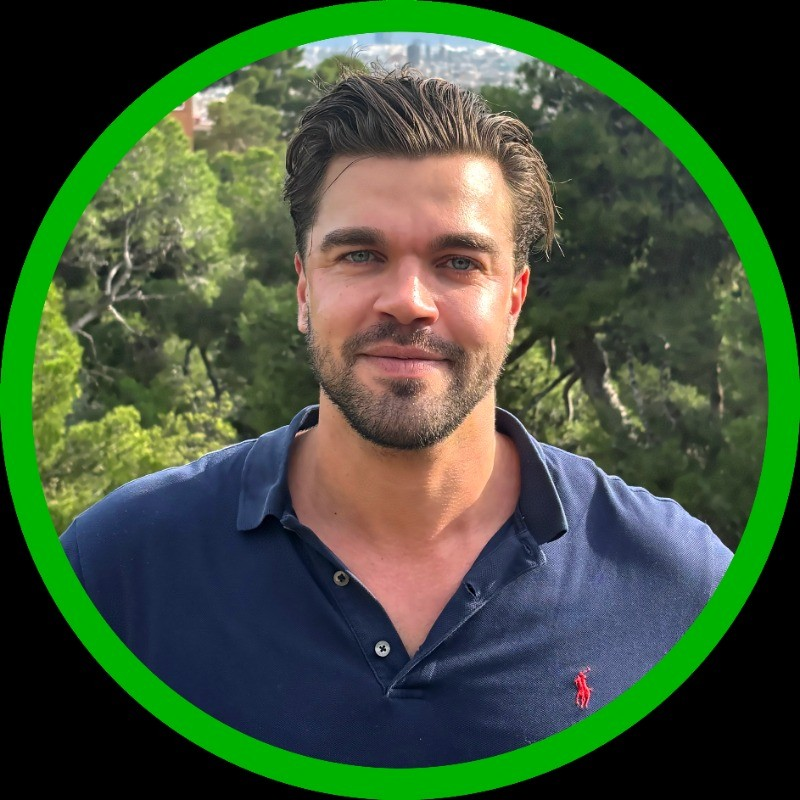
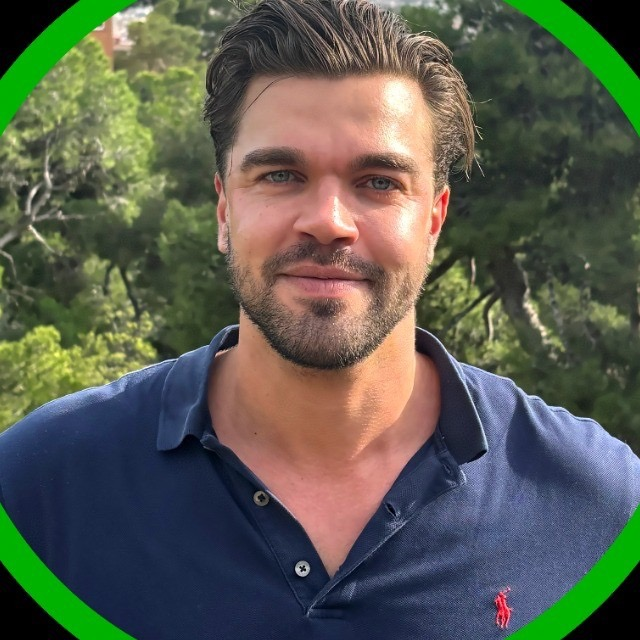
STS: member one-liners + framing fixes (Demian crop, Zach face), bigger benefit cards w/ concrete copy no dup numbers, 3-step how-it-works, host facilitation, tighter spacing, dinner photo reorder

diff --git a/src/app/shouldertoshoulder/page.tsx b/src/app/shouldertoshoulder/page.tsx
@@ -11,13 +11,14 @@ const MUT_SOFT = "#d8d2c7";
 const INK = "#15130f";
 const INK_MUT = "#57534c";
 
-const members = [
-  { name: "David", img: "/members/David.png" },
-  { name: "Zach", img: "/members/Zach.png" },
-  { name: "Kibet", img: "/members/Kibet.png" },
-  { name: "Dane", img: "/members/Dane.jpeg" },
-  { name: "Samer", img: "/members/Samer.png" },
-  { name: "Demian", img: "/members/Demian.jpeg" },
+type Member = { name: string; tag: string; img: string; pos?: string; scale?: number };
+const members: Member[] = [
+  { name: "Kibet", tag: "AgTech hardware · raising Series A", img: "/members/Kibet.png" },
+  { name: "David", tag: "Bali real estate investment", img: "/members/David.png" },
+  { name: "Samer", tag: "Airbnb · building a 16-unit project", img: "/members/Samer.png" },
+  { name: "Demian", tag: "2× AI-run B2B SaaS", img: "/members/Demian.jpeg", scale: 1.3 },
+  { name: "Dane", tag: "AI platform for filmmakers", img: "/members/Dane.jpeg" },
+  { name: "Zach", tag: "Health & wellbeing app", img: "/members/Zach.png", pos: "center 18%" },
 ];
 
 const copy = {
@@ -34,17 +35,17 @@ const copy = {
     painEyebrow: "Sound familiar?",
     painLine: "Building alone is slow. You hit the same walls, second-guess the big calls, and lose weeks no one helps you avoid.",
 
-    changeEyebrow: "What you get",
-    changeTitle: "Faster growth. A real team. More fun.",
+    changeEyebrow: "The outcome",
+    changeTitle: "Here's what changes.",
     changes: [
-      { title: "Exponential growth", desc: "You compound with the room, instead of growing alone, one linear step at a time." },
-      { title: "A real team", desc: "Six founders who know your business and have your back on every hard call." },
-      { title: "More fun", desc: "Wins shared, the journey lighter. You're not doing this alone anymore." },
+      { title: "Exponential growth", desc: "Normal founders grow linearly. Together we grow exponentially." },
+      { title: "A real team", desc: "A real team of founders around you, who know your business and back you on every call." },
+      { title: "Enjoy the journey", desc: "Fun stuff, dinners and activities. You're not doing this alone anymore." },
     ],
 
     roomEyebrow: "Who's in the room",
     roomTitle: "The founders beside you.",
-    roomSub: "Real operators building real businesses. Founders like David, Zach, Samer and Kibet. This is who you grow with, every week.",
+    roomSub: "Just some examples of who you grow with, every week.",
 
     proofEyebrow: "Proof",
     proofTitle: "What it does for them.",
@@ -53,21 +54,21 @@ const copy = {
       { quote: "I'd been stuck on a real estate idea for months. With the circle it became land I now own and a 14-unit project.", name: "Samer", type: "Member" },
       { quote: "I started thinking like the founder I need to become to raise €40M. It changed everything.", name: "Kibet", type: "Member" },
     ],
-    dinnerCaps: ["Founder dinner", "The club", "Together"],
-    storyLine: "I built the room I wish I'd had as a founder.",
-    storyName: "Lennart van der Ziel",
+    dinnerCaps: ["The club", "Founder dinner", "Together"],
 
-    ccEyebrow: "The circle & the club",
-    ccTitle: "You're never in it alone.",
-    ccCircleTitle: "Your circle",
-    ccCircleDesc: "A weekly session with your six, plus a monthly 1-on-1 with Lennart. Online, because members are everywhere.",
-    ccClubTitle: "The club",
-    ccClubDesc: "The whole community together: events, dinners and sidequests, in person.",
+    howEyebrow: "How it works",
+    howTitle: "Here's how it works.",
+    how: [
+      { n: "1", title: "You're selected into a circle", desc: "You fit into one of the weekly circles with your six. Just one hour a week, online, because members are everywhere." },
+      { n: "2", title: "Dinners & activities", desc: "The whole club comes together in person for dinners, events and sidequests." },
+      { n: "3", title: "Monthly 1-on-1 with Lennart", desc: "Personal strategy, just you and me." },
+    ],
+    howNote: "Every circle is personally facilitated by Lennart.",
 
     hostEyebrow: "Your host",
     hostName: "Lennart van der Ziel",
     hostChips: ["Founder & CEO", "Best of CES", "100+ founders guided"],
-    hostDesc: "I built and led an award-winning tech startup. I made costly mistakes and often felt alone. Shoulder to Shoulder is the room I wish I'd had.",
+    hostDesc: "I built and led an award-winning tech startup. I made costly mistakes and often felt alone, so I built the room I wish I'd had. I personally host every circle.",
 
     faqEyebrow: "FAQ",
     faqTitle: "Good questions.",
@@ -97,17 +98,17 @@ const copy = {
     painEyebrow: "Herkenbaar?",
     painLine: "Alleen bouwen is traag. Je loopt tegen dezelfde muren aan, twijfelt over de grote keuzes, en verliest weken die niemand je helpt voorkomen.",
 
-    changeEyebrow: "Wat je krijgt",
-    changeTitle: "Sneller groeien. Een echt team. Meer plezier.",
+    changeEyebrow: "Het resultaat",
+    changeTitle: "Dit verandert er.",
     changes: [
-      { title: "Exponentiële groei", desc: "Je compound met de groep, in plaats van alleen, stap voor stap lineair." },
-      { title: "Een echt team", desc: "Zes founders die je business kennen en achter je staan bij elke lastige keuze." },
-      { title: "Meer plezier", desc: "Wins gedeeld, de reis lichter. Je doet dit niet langer alleen." },
+      { title: "Exponentiële groei", desc: "Normale founders groeien lineair. Samen groeien we exponentieel." },
+      { title: "Een echt team", desc: "Een echt team van founders om je heen, die je business kennen en achter je staan bij elke keuze." },
+      { title: "Geniet van de reis", desc: "Leuke dingen, diners en activiteiten. Je doet dit niet langer alleen." },
     ],
 
     roomEyebrow: "Wie er in de kamer zit",
     roomTitle: "De founders naast je.",
-    roomSub: "Echte ondernemers die echte bedrijven bouwen. Founders zoals David, Zach, Samer en Kibet. Met hen groei je, elke week.",
+    roomSub: "Slechts een paar voorbeelden van met wie je groeit, elke week.",
 
     proofEyebrow: "Bewijs",
     proofTitle: "Wat het voor hen doet.",
@@ -116,21 +117,21 @@ const copy = {
       { quote: "Ik zat al maanden vast op een vastgoedidee. Met de kring werd het grond die ik nu bezit en een project van 14 units.", name: "Samer", type: "Lid" },
       { quote: "Ik begon te denken als de founder die ik moet worden om €40M op te halen. Dat veranderde alles.", name: "Kibet", type: "Lid" },
     ],
-    dinnerCaps: ["Founder-diner", "De club", "Samen"],
-    storyLine: "Ik bouwde de groep die ik zelf had willen hebben als founder.",
-    storyName: "Lennart van der Ziel",
+    dinnerCaps: ["De club", "Founder-diner", "Samen"],
 
-    ccEyebrow: "De circle & de club",
-    ccTitle: "Je staat er nooit alleen voor.",
-    ccCircleTitle: "Je circle",
-    ccCircleDesc: "Een wekelijkse sessie met je zes, plus een maandelijkse 1-op-1 met Lennart. Online, omdat members overal zitten.",
-    ccClubTitle: "De club",
-    ccClubDesc: "De hele community samen: events, diners en sidequests, in het echt.",
+    howEyebrow: "Hoe het werkt",
+    howTitle: "Zo werkt het.",
+    how: [
+      { n: "1", title: "Je wordt geplaatst in een circle", desc: "Je komt in een van de wekelijkse circles met je zes. Eén uur per week, online, omdat members overal zitten." },
+      { n: "2", title: "Diners & activiteiten", desc: "De hele club komt in het echt samen voor diners, events en sidequests." },
+      { n: "3", title: "Maandelijkse 1-op-1 met Lennart", desc: "Persoonlijke strategie, alleen jij en ik." },
+    ],
+    howNote: "Elke circle wordt persoonlijk gefaciliteerd door Lennart.",
 
     hostEyebrow: "Je host",
     hostName: "Lennart van der Ziel",
     hostChips: ["Founder & CEO", "Best of CES", "100+ founders begeleid"],
-    hostDesc: "Ik bouwde en leidde een bekroonde tech-startup. Ik maakte dure fouten en voelde me vaak alleen. Shoulder to Shoulder is de groep die ik zelf had willen hebben.",
+    hostDesc: "Ik bouwde en leidde een bekroonde tech-startup. Ik maakte dure fouten en voelde me vaak alleen, dus bouwde ik de groep die ik zelf had willen hebben. Ik host elke circle persoonlijk.",
 
     faqEyebrow: "FAQ",
     faqTitle: "Goede vragen.",
@@ -158,13 +159,13 @@ export default function Join() {
     document.getElementById("book")?.scrollIntoView({ behavior: "smooth" });
   }
 
-  const SEC = "100px 24px";
+  const SEC = "88px 24px";
   const btnLight = (extra: React.CSSProperties = {}): React.CSSProperties => ({ color: INK, background: "#fff", padding: "16px 32px", borderRadius: 100, fontSize: 15.5, fontWeight: 700, cursor: "pointer", border: "none", fontFamily: "inherit", ...extra });
   const eyebrowS: React.CSSProperties = { fontSize: 12, fontWeight: 800, letterSpacing: "0.18em", textTransform: "uppercase", color: ACCENT };
   const h2 = (dark: boolean): React.CSSProperties => ({ marginTop: 14, fontSize: "clamp(29px,3.7vw,40px)", fontWeight: 800, lineHeight: 1.12, letterSpacing: "-0.022em", color: dark ? "#fff" : INK });
   const mediaBox: React.CSSProperties = { position: "relative", width: "100%", borderRadius: 16, overflow: "hidden", background: "linear-gradient(135deg, #1c1915, #2e2820)", border: "1px solid rgba(255,255,255,0.1)", display: "flex", alignItems: "center", justifyContent: "center" };
   const Head = ({ eye, title, dark, center }: { eye: string; title: string; dark: boolean; center?: boolean }) => (
-    <div style={{ maxWidth: 640, margin: center ? "0 auto 48px" : "0 0 40px", textAlign: center ? "center" : "left" }}>
+    <div style={{ maxWidth: 640, margin: center ? "0 auto 44px" : "0 0 36px", textAlign: center ? "center" : "left" }}>
       <span style={eyebrowS}>{eye}</span>
       <h2 style={h2(dark)}>{title}</h2>
     </div>
@@ -191,10 +192,10 @@ export default function Join() {
       </nav>
 
       {/* HERO */}
-      <header style={{ position: "relative", width: "100%", minHeight: "94vh", overflow: "hidden", display: "flex", flexDirection: "column", justifyContent: "flex-end" }}>
+      <header style={{ position: "relative", width: "100%", minHeight: "90vh", overflow: "hidden", display: "flex", flexDirection: "column", justifyContent: "flex-end" }}>
         <Image src="/founders.jpg" alt="Founders together" fill className="ken-burns photo-grade" style={{ objectFit: "cover" }} priority />
         <div style={{ position: "absolute", inset: 0, background: "linear-gradient(to bottom, rgba(10,9,7,0.6) 0%, rgba(10,9,7,0.35) 40%, rgba(10,9,7,0.8) 74%, rgba(10,9,7,0.98) 100%)" }} />
-        <div className="fade-up" style={{ position: "relative", maxWidth: 1080, margin: "0 auto", width: "100%", padding: "0 24px 90px" }}>
+        <div className="fade-up" style={{ position: "relative", maxWidth: 1080, margin: "0 auto", width: "100%", padding: "0 24px 64px" }}>
           <div style={{ display: "inline-flex", alignItems: "center", gap: 8, border: "1px solid rgba(255,255,255,0.4)", borderRadius: 100, padding: "7px 15px", marginBottom: 24, backdropFilter: "blur(8px)", background: "rgba(255,255,255,0.14)" }}>
             <span className="pulse-dot" style={{ width: 7, height: 7, borderRadius: "50%", background: ACCENT }} />
             <span style={{ fontSize: 11.5, fontWeight: 700, letterSpacing: "0.14em", textTransform: "uppercase", color: "#fff" }}>{t.byInvite}</span>
@@ -202,7 +203,7 @@ export default function Join() {
           <h1 style={{ fontSize: "clamp(46px,7.6vw,88px)", fontWeight: 800, lineHeight: 0.98, letterSpacing: "-0.035em", color: "#fff", maxWidth: 820, marginBottom: 22, textShadow: "0 2px 30px rgba(0,0,0,0.5)" }}>
             {t.heroTitleA}<span style={{ color: ACCENT }}>{t.heroTitleB}</span>
           </h1>
-          <p style={{ maxWidth: 540, fontSize: "clamp(18px,2.2vw,22px)", lineHeight: 1.4, color: "#f0ece4", marginBottom: 34, fontWeight: 500, textShadow: "0 1px 16px rgba(0,0,0,0.6)" }}>{t.heroSub}</p>
+          <p style={{ maxWidth: 540, fontSize: "clamp(18px,2.2vw,22px)", lineHeight: 1.4, color: "#f0ece4", marginBottom: 32, fontWeight: 500, textShadow: "0 1px 16px rgba(0,0,0,0.6)" }}>{t.heroSub}</p>
           <div style={{ display: "flex", alignItems: "center", gap: 16, flexWrap: "wrap" }}>
             <button onClick={book} className="btn-light" style={btnLight({ padding: "17px 34px", fontSize: 16 })}>{t.applyArrow}</button>
             <span style={{ fontSize: 13.5, color: MUT, fontWeight: 600 }}>{t.freeNote}</span>
@@ -211,23 +212,22 @@ export default function Join() {
       </header>
 
       {/* PAINPOINT */}
-      <section style={{ background: "#0f0e0b", padding: "80px 24px", borderBottom: "1px solid rgba(255,255,255,0.06)" }}>
+      <section style={{ background: "#0f0e0b", padding: "58px 24px" }}>
         <div style={{ maxWidth: 720, margin: "0 auto", textAlign: "center" }}>
           <span style={eyebrowS}>{t.painEyebrow}</span>
-          <p style={{ marginTop: 16, fontSize: "clamp(22px,3vw,30px)", fontWeight: 700, lineHeight: 1.35, letterSpacing: "-0.02em", color: "#fff" }}>{t.painLine}</p>
+          <p style={{ marginTop: 14, fontSize: "clamp(22px,3vw,30px)", fontWeight: 700, lineHeight: 1.35, letterSpacing: "-0.02em", color: "#fff" }}>{t.painLine}</p>
         </div>
       </section>
 
       {/* WHAT YOU GET */}
-      <section style={{ background: "#0f0e0b", padding: SEC }}>
+      <section style={{ background: "#0f0e0b", padding: `20px 24px ${SEC.split(" ")[0]}` }}>
         <div style={{ maxWidth: 1000, margin: "0 auto" }}>
           <Head eye={t.changeEyebrow} title={t.changeTitle} dark center />
-          <div className="grid-auto" style={{ display: "grid", gridTemplateColumns: "repeat(auto-fit,minmax(260px,1fr))", gap: 18 }}>
-            {t.changes.map((b, i) => (
-              <div key={b.title} style={{ background: "rgba(255,255,255,0.04)", border: "1px solid rgba(255,255,255,0.12)", borderRadius: 16, padding: "30px 26px" }}>
-                <span style={{ display: "inline-flex", alignItems: "center", justifyContent: "center", width: 40, height: 40, borderRadius: 10, background: `color-mix(in srgb, ${ACCENT} 18%, transparent)`, color: ACCENT, fontWeight: 800, fontSize: 15 }}>{String(i + 1).padStart(2, "0")}</span>
-                <h3 style={{ fontSize: 20, fontWeight: 800, marginTop: 16, letterSpacing: "-0.01em", color: "#fff" }}>{b.title}</h3>
-                <p style={{ marginTop: 8, fontSize: 15, lineHeight: 1.55, color: MUT }}>{b.desc}</p>
+          <div className="grid-auto" style={{ display: "grid", gridTemplateColumns: "repeat(auto-fit,minmax(280px,1fr))", gap: 18 }}>
+            {t.changes.map((b) => (
+              <div key={b.title} style={{ background: "rgba(255,255,255,0.04)", border: "1px solid rgba(255,255,255,0.12)", borderRadius: 18, padding: "38px 32px" }}>
+                <h3 style={{ fontSize: 25, fontWeight: 800, letterSpacing: "-0.02em", color: "#fff" }}>{b.title}</h3>
+                <p style={{ marginTop: 12, fontSize: 16.5, lineHeight: 1.55, color: MUT_SOFT }}>{b.desc}</p>
               </div>
             ))}
           </div>
@@ -237,20 +237,21 @@ export default function Join() {
       {/* WHO'S IN THE ROOM */}
       <section style={{ background: "#fff", color: INK, padding: SEC }}>
         <div style={{ maxWidth: 1000, margin: "0 auto" }}>
-          <div style={{ textAlign: "center", maxWidth: 620, margin: "0 auto 48px" }}>
+          <div style={{ textAlign: "center", maxWidth: 620, margin: "0 auto 44px" }}>
             <span style={eyebrowS}>{t.roomEyebrow}</span>
             <h2 style={h2(false)}>{t.roomTitle}</h2>
             <p style={{ marginTop: 14, fontSize: 16.5, lineHeight: 1.55, color: INK_MUT }}>{t.roomSub}</p>
           </div>
-          <div className="grid-auto" style={{ display: "grid", gridTemplateColumns: "repeat(auto-fit,minmax(150px,1fr))", gap: 16 }}>
+          <div className="grid-auto" style={{ display: "grid", gridTemplateColumns: "repeat(auto-fit,minmax(160px,1fr))", gap: 18 }}>
             {members.map((m) => (
               <div key={m.name} style={{ textAlign: "center" }}>
-                <div style={{ position: "relative", width: 104, height: 104, borderRadius: "50%", margin: "0 auto", overflow: "hidden", background: `color-mix(in srgb, ${ACCENT} 20%, #e7e0d4)`, display: "flex", alignItems: "center", justifyContent: "center", border: "2px solid rgba(0,0,0,0.05)" }}>
+                <div style={{ position: "relative", width: 108, height: 108, borderRadius: "50%", margin: "0 auto", overflow: "hidden", background: `color-mix(in srgb, ${ACCENT} 20%, #e7e0d4)`, display: "flex", alignItems: "center", justifyContent: "center", border: "2px solid rgba(0,0,0,0.05)" }}>
                   <span style={{ fontSize: 34, fontWeight: 800, color: ACCENT }}>{m.name.slice(0, 1)}</span>
                   {/* eslint-disable-next-line @next/next/no-img-element */}
-                  <img src={m.img} alt={m.name} style={{ position: "absolute", inset: 0, width: "100%", height: "100%", objectFit: "cover" }} onError={(e) => { (e.currentTarget as HTMLImageElement).style.display = "none"; }} />
+                  <img src={m.img} alt={m.name} style={{ position: "absolute", inset: 0, width: "100%", height: "100%", objectFit: "cover", objectPosition: m.pos || "center", transform: m.scale ? `scale(${m.scale})` : undefined }} onError={(e) => { (e.currentTarget as HTMLImageElement).style.display = "none"; }} />
                 </div>
-                <h3 style={{ marginTop: 14, fontSize: 16.5, fontWeight: 800 }}>{m.name}</h3>
+                <h3 style={{ marginTop: 14, fontSize: 17, fontWeight: 800 }}>{m.name}</h3>
+                <p style={{ marginTop: 3, fontSize: 12.5, fontWeight: 600, color: INK_MUT, lineHeight: 1.35 }}>{m.tag}</p>
               </div>
             ))}
           </div>
@@ -274,7 +275,7 @@ export default function Join() {
             ))}
           </div>
           <div className="photo-grid" style={{ display: "grid", gridTemplateColumns: "1fr 1fr 1fr", gap: 10, marginTop: 18 }}>
-            {[{ src: "/dinner.jpg" }, { src: "/event-group.jpg" }, { src: "/mastermind.jpg" }].map((p, i) => (
+            {[{ src: "/event-group.jpg" }, { src: "/dinner.jpg" }, { src: "/mastermind.jpg" }].map((p, i) => (
               <div key={p.src} className="photo-zoom" style={{ position: "relative", aspectRatio: "1/1", borderRadius: 12, overflow: "hidden" }}>
                 <Image src={p.src} alt={t.dinnerCaps[i]} fill className="photo-grade" style={{ objectFit: "cover" }} />
               </div>
@@ -283,22 +284,20 @@ export default function Join() {
         </div>
       </section>
 
-      {/* CIRCLE & CLUB */}
+      {/* HOW IT WORKS */}
       <section style={{ background: "#0f0e0b", padding: SEC }}>
-        <div style={{ maxWidth: 900, margin: "0 auto" }}>
-          <Head eye={t.ccEyebrow} title={t.ccTitle} dark center />
-          <div className="grid-auto" style={{ display: "grid", gridTemplateColumns: "repeat(auto-fit,minmax(300px,1fr))", gap: 18 }}>
-            <div style={{ background: "rgba(232,116,43,0.08)", border: `1px solid ${ACCENT}`, borderRadius: 16, padding: "30px 28px" }}>
-              <span style={{ display: "inline-flex", alignItems: "center", justifyContent: "center", width: 44, height: 44, borderRadius: 12, background: ACCENT, color: "#fff", fontWeight: 800, fontSize: 19 }}>6</span>
-              <h3 style={{ marginTop: 16, fontSize: 21, fontWeight: 800, color: "#fff" }}>{t.ccCircleTitle}</h3>
-              <p style={{ marginTop: 10, fontSize: 15.5, lineHeight: 1.55, color: MUT_SOFT }}>{t.ccCircleDesc}</p>
-            </div>
-            <div style={{ background: "rgba(255,255,255,0.04)", border: "1px solid rgba(255,255,255,0.12)", borderRadius: 16, padding: "30px 28px" }}>
-              <span style={{ display: "inline-flex", alignItems: "center", justifyContent: "center", width: 44, height: 44, borderRadius: 12, background: "rgba(255,255,255,0.1)", color: "#fff", fontWeight: 800, fontSize: 22 }}>∞</span>
-              <h3 style={{ marginTop: 16, fontSize: 21, fontWeight: 800, color: "#fff" }}>{t.ccClubTitle}</h3>
-              <p style={{ marginTop: 10, fontSize: 15.5, lineHeight: 1.55, color: MUT }}>{t.ccClubDesc}</p>
-            </div>
+        <div style={{ maxWidth: 1000, margin: "0 auto" }}>
+          <Head eye={t.howEyebrow} title={t.howTitle} dark center />
+          <div className="grid-auto" style={{ display: "grid", gridTemplateColumns: "repeat(auto-fit,minmax(260px,1fr))", gap: 18 }}>
+            {t.how.map((s) => (
+              <div key={s.n} style={{ background: "rgba(255,255,255,0.04)", border: "1px solid rgba(255,255,255,0.12)", borderRadius: 16, padding: "28px 26px" }}>
+                <span style={{ display: "inline-flex", alignItems: "center", justifyContent: "center", width: 42, height: 42, borderRadius: "50%", background: ACCENT, color: "#fff", fontWeight: 800, fontSize: 18 }}>{s.n}</span>
+                <h3 style={{ fontSize: 19, fontWeight: 800, marginTop: 16, color: "#fff", letterSpacing: "-0.01em" }}>{s.title}</h3>
+                <p style={{ marginTop: 8, fontSize: 15, lineHeight: 1.55, color: MUT }}>{s.desc}</p>
+              </div>
+            ))}
           </div>
+          <p style={{ marginTop: 24, textAlign: "center", fontSize: 14.5, fontWeight: 700, color: ACCENT }}>{t.howNote}</p>
         </div>
       </section>
 
@@ -345,7 +344,7 @@ export default function Join() {
           <Image src="/event-group.jpg" alt="" fill className="photo-grade" style={{ objectFit: "cover", objectPosition: "center 60%" }} />
         </div>
         <div style={{ position: "absolute", inset: 0, background: "rgba(10,9,7,0.93)" }} />
-        <div style={{ position: "relative", maxWidth: 620, margin: "0 auto", padding: "100px 24px", textAlign: "center" }}>
+        <div style={{ position: "relative", maxWidth: 620, margin: "0 auto", padding: "96px 24px", textAlign: "center" }}>
           <h2 style={{ fontSize: "clamp(30px,4.4vw,48px)", fontWeight: 800, lineHeight: 1.08, letterSpacing: "-0.03em", color: "#fff" }}>{t.finalTitle}</h2>
           <p style={{ margin: "16px auto 0", maxWidth: 400, fontSize: 16.5, lineHeight: 1.5, color: MUT }}>{t.finalSub}</p>
           <div style={{ marginTop: 30, display: "flex", flexDirection: "column", alignItems: "center", gap: 12 }}>
